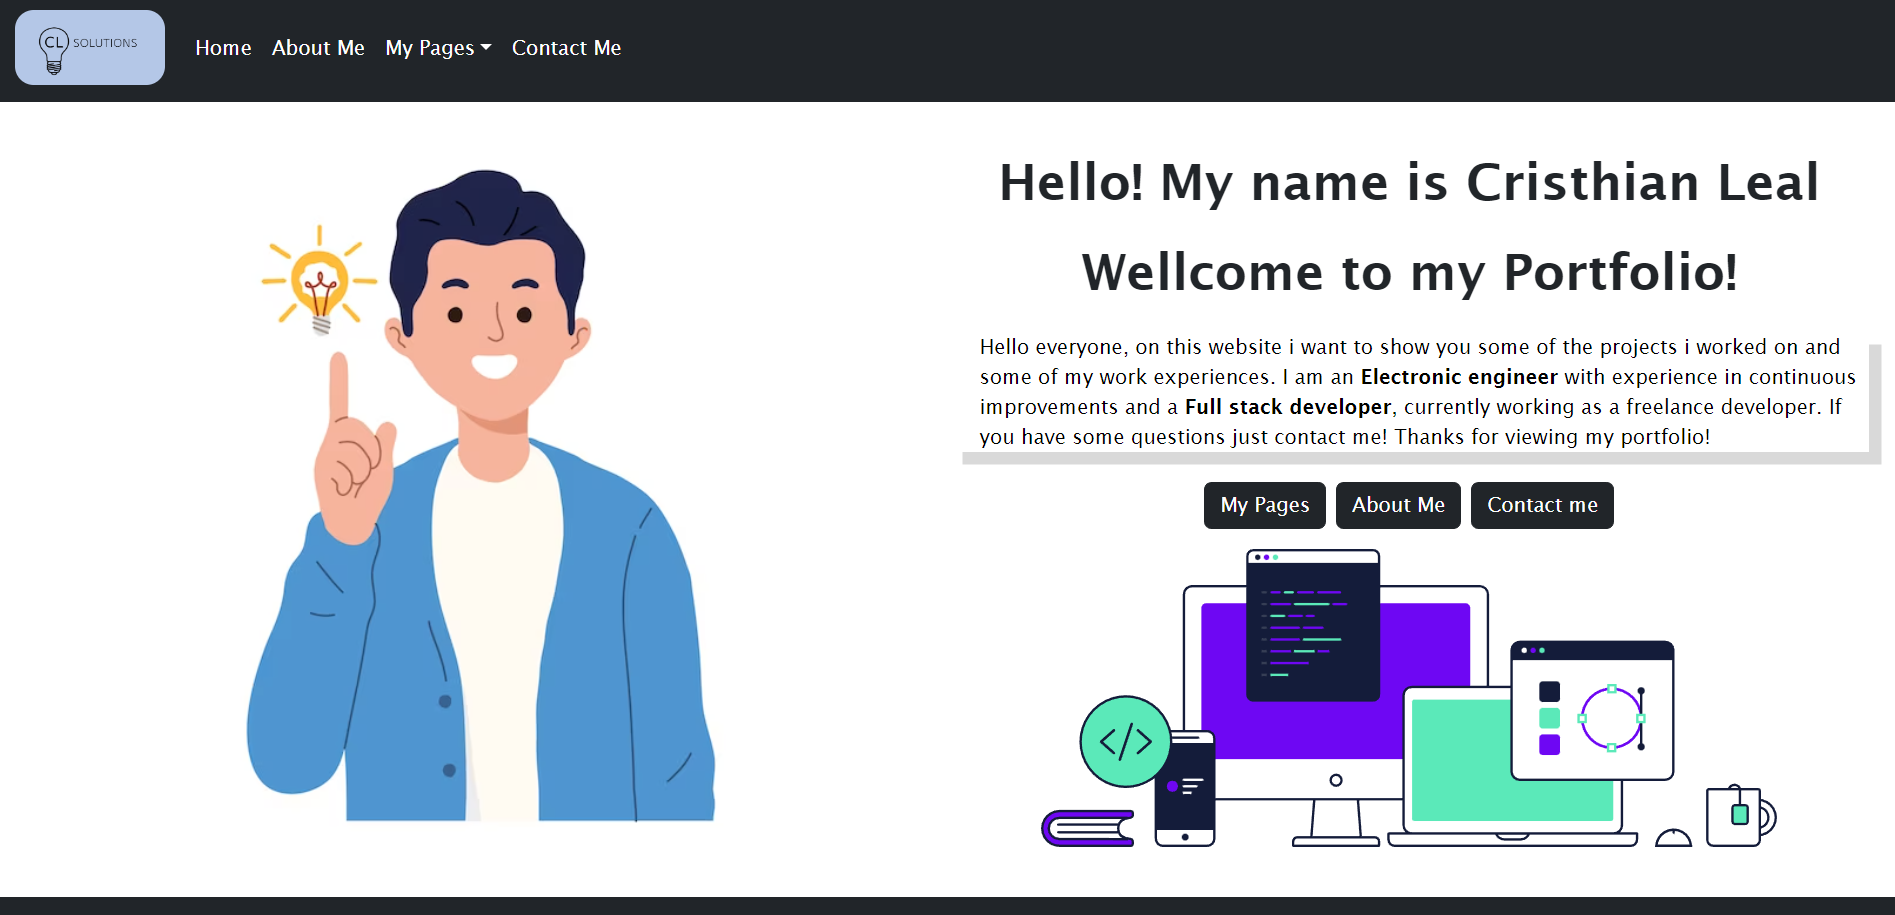
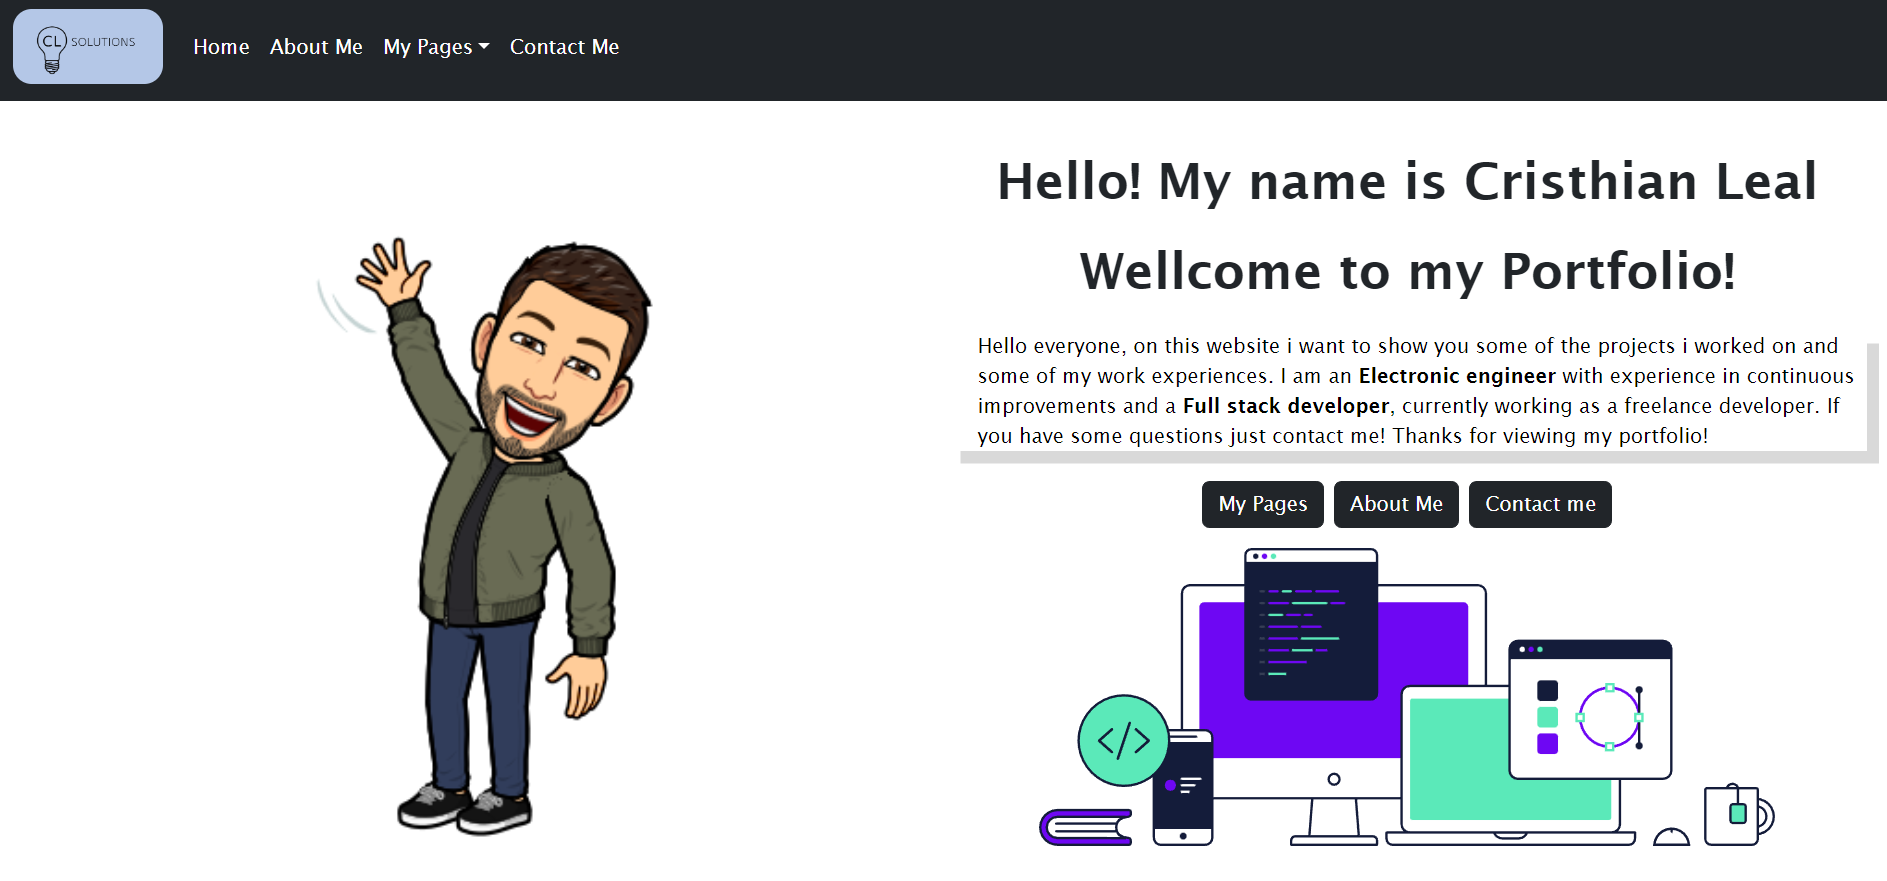
images corrects 2

diff --git a/src/pages/Contact/Contact.js b/src/pages/Contact/Contact.js
@@ -1,31 +1,59 @@
 import React from 'react'
 import './contact.css'
-import logo from '../../assets/img/logogral.png'
+import contact from '../../assets/img/contactnew.jpg'
+import what from '../../assets/img/what.png'
+import email from '../../assets/img/email.png'
+import insta from '../../assets/img/insta.png'
+import github from '../../assets/img/github.png'
+import linkedin from '../../assets/img/linkedin.png'
+
 
 const Contact = () => {
   return (
-    <div className='d-flex flex-column flex-sm-row general'>
+    <div className='d-flex flex-column flex-md-row general'>
 
-      <div className='col-6 p-3'>
-        <img src={logo} alt="Logo" className='w-50' />
+      <div className='d-flex justify-content-center align-items-center col-12 p-3 col-md-6'>
+        <img src={contact} alt="Logo" className='imgCont' />
       </div>
       
-      <div className='col-6 d-flex flex-column p-3'>
-        <div className='d-flex flex-row col-3'>
-          <img src={logo} alt="Logo" className='w-50' />
-          <a href='/'>Enlace</a>
+      <div className='col-12 col-md-6 d-flex flex-wrap p-3 align-items-center justify-content-center'>
+        <div className='d-flex flex-row col-10 col-md-12 cards'>
+          <a className='linkCont' href='https://wa.me/5493815980535' target='blank'>
+            <img src={what} alt="what" className='w-50 p-2' />
+            <p className='m-0'>+5493815980535</p>
+          </a>
         </div>
-        <div className='d-flex flex-row col-3'>
-          <img src={logo} alt="Logo" className='w-50' />
-          <a href='/'>Enlace</a>
+        <div className='d-flex flex-row col-10 col-md-12 cards'>
+          <a className='linkCont' href='mailto:cristhianaugustoleal@gmail.com' target='blank'>
+            <img src={email} alt="email" className='w-50 p-2' />
+            <p className='m-0'>
+              Email
+            </p>
+          </a>
         </div>
-        <div className='d-flex flex-row col-3'>
-          <img src={logo} alt="Logo" className='w-50' />
-          <a href='/'>Enlace</a>
+        <div className='d-flex flex-row col-10 col-md-12 cards'>
+          <a className='linkCont' href='https://github.com/CristhianLeal' target='blank'>
+            <img src={github} alt="github" className='w-50 p-2' />
+            <p className='m-0'>
+              GitHub
+            </p>
+          </a>
         </div>
-        <div className='d-flex flex-row col-3'>
-          <img src={logo} alt="Logo" className='w-50' />
-          <a href='/'>Enlace</a>
+        <div className='d-flex flex-row col-10 col-md-12 cards'>
+          <a className='linkCont' href='https://www.linkedin.com/in/cristhian-augusto-leal-464313167/' target='blank'>
+            <img src={linkedin} alt="github" className='w-50 p-2' />
+            <p className='m-0'>
+              LinkedIn              
+            </p>
+          </a>
+        </div>
+        <div className='d-flex flex-row col-10 col-md-12 cards'>
+          <a className='linkCont' href='https://www.instagram.com/cristhianleal/' target='blank'>
+            <img src={insta} alt="insta" className='w-50 p-2' />
+            <p className='m-0'>
+              Instagram
+            </p>
+          </a>
         </div>
       </div>
     </div>

diff --git a/src/pages/About/About.js b/src/pages/About/About.js
@@ -1,11 +1,12 @@
 import React from 'react'
 import './about.css'
+import about from '../../assets/img/aboutnew.jpg'
 
 const Aboutme = () => {
 
 
   return (
-    <div className='d-flex flex-column flex-lg-row'>
+    <div className='d-flex flex-column flex-lg-row general'>
       <div className='d-flex flex-column align-content-center justify-content-center col-lg-6 col-12 p-3'>
         <div className='d-flex flex-row'>
           <h2 className='m-0 pe-3 tAbout d-flex align-items-center justify-content-center'>Cristhian Leal</h2>
@@ -92,7 +93,7 @@ const Aboutme = () => {
         </div>
       </div>
       <div className='d-flex align-content-center justify-content-center col-lg-6 col-12'>
-        <img src='https://thumbs.dreamstime.com/b/bonito-hombre-de-negocios-sonriente-con-gafas-gerente-confianza-parado-los-brazos-cruzados-190757851.jpg' alt='About-Me' className='mainimgAbout p-3 d-flex align-items-center justify-content-center'/>
+        <img src={about} alt='About-Me' className='mainimgAbout p-3 d-flex align-items-center justify-content-center'/>
       </div>
     </div>
   )

diff --git a/src/components/Navbar/Navbar.js b/src/components/Navbar/Navbar.js
@@ -33,8 +33,8 @@ const Navbar = () => {
                   About Me
                 </Link>
               </li>
-              <li className="nav-item dropdown">
-                <p className="nav-link dropdown-toggle text-white links" href="/mypages" role="button" data-bs-toggle="dropdown" aria-expanded="false">
+              <li className="nav-item dropdown m-0">
+                <p className="nav-link dropdown-toggle text-white links m-0" href="/mypages" role="button" data-bs-toggle="dropdown" aria-expanded="false">
                   My Pages
                 </p>
                 <ul className="dropdown-menu bg-dark">

diff --git a/src/pages/Contact/contact.css b/src/pages/Contact/contact.css
@@ -1,3 +1,29 @@
 .general{
   min-height: 80vh;
 }
+.imgCont{
+  width: 80%;
+  height: auto;
+}
+
+.cards{
+  border: 2px solid black;
+  border-radius: 10px;
+  margin-bottom: 10px;
+  margin-left: 10px;
+  margin-right: 10px;
+  height: 150px;
+  padding: 10px;
+  max-width: 300px;
+}
+.linkCont{
+  display: flex;
+  justify-content: center;
+  align-items: center;
+  text-decoration: none;
+  color: black;
+}
+.linkCont:hover{
+  color: rgb(110,7,243);
+}
+

diff --git a/src/pages/Home/Home.js b/src/pages/Home/Home.js
@@ -1,7 +1,7 @@
 import React from 'react'
 import './home.css'
 import { Link } from 'react-router-dom'
-import home from '../../assets/img/home.png'
+import home from '../../assets/img/homenew.jpg'
 
 const Body = () => {
   const handleLinkClick = () => {

diff --git a/src/pages/About/about.css b/src/pages/About/about.css
@@ -1,3 +1,6 @@
+.general{
+  min-height: 80vh;
+}
 .mainimgAbout{
   max-width: 100%;
   border-radius: 100px;
